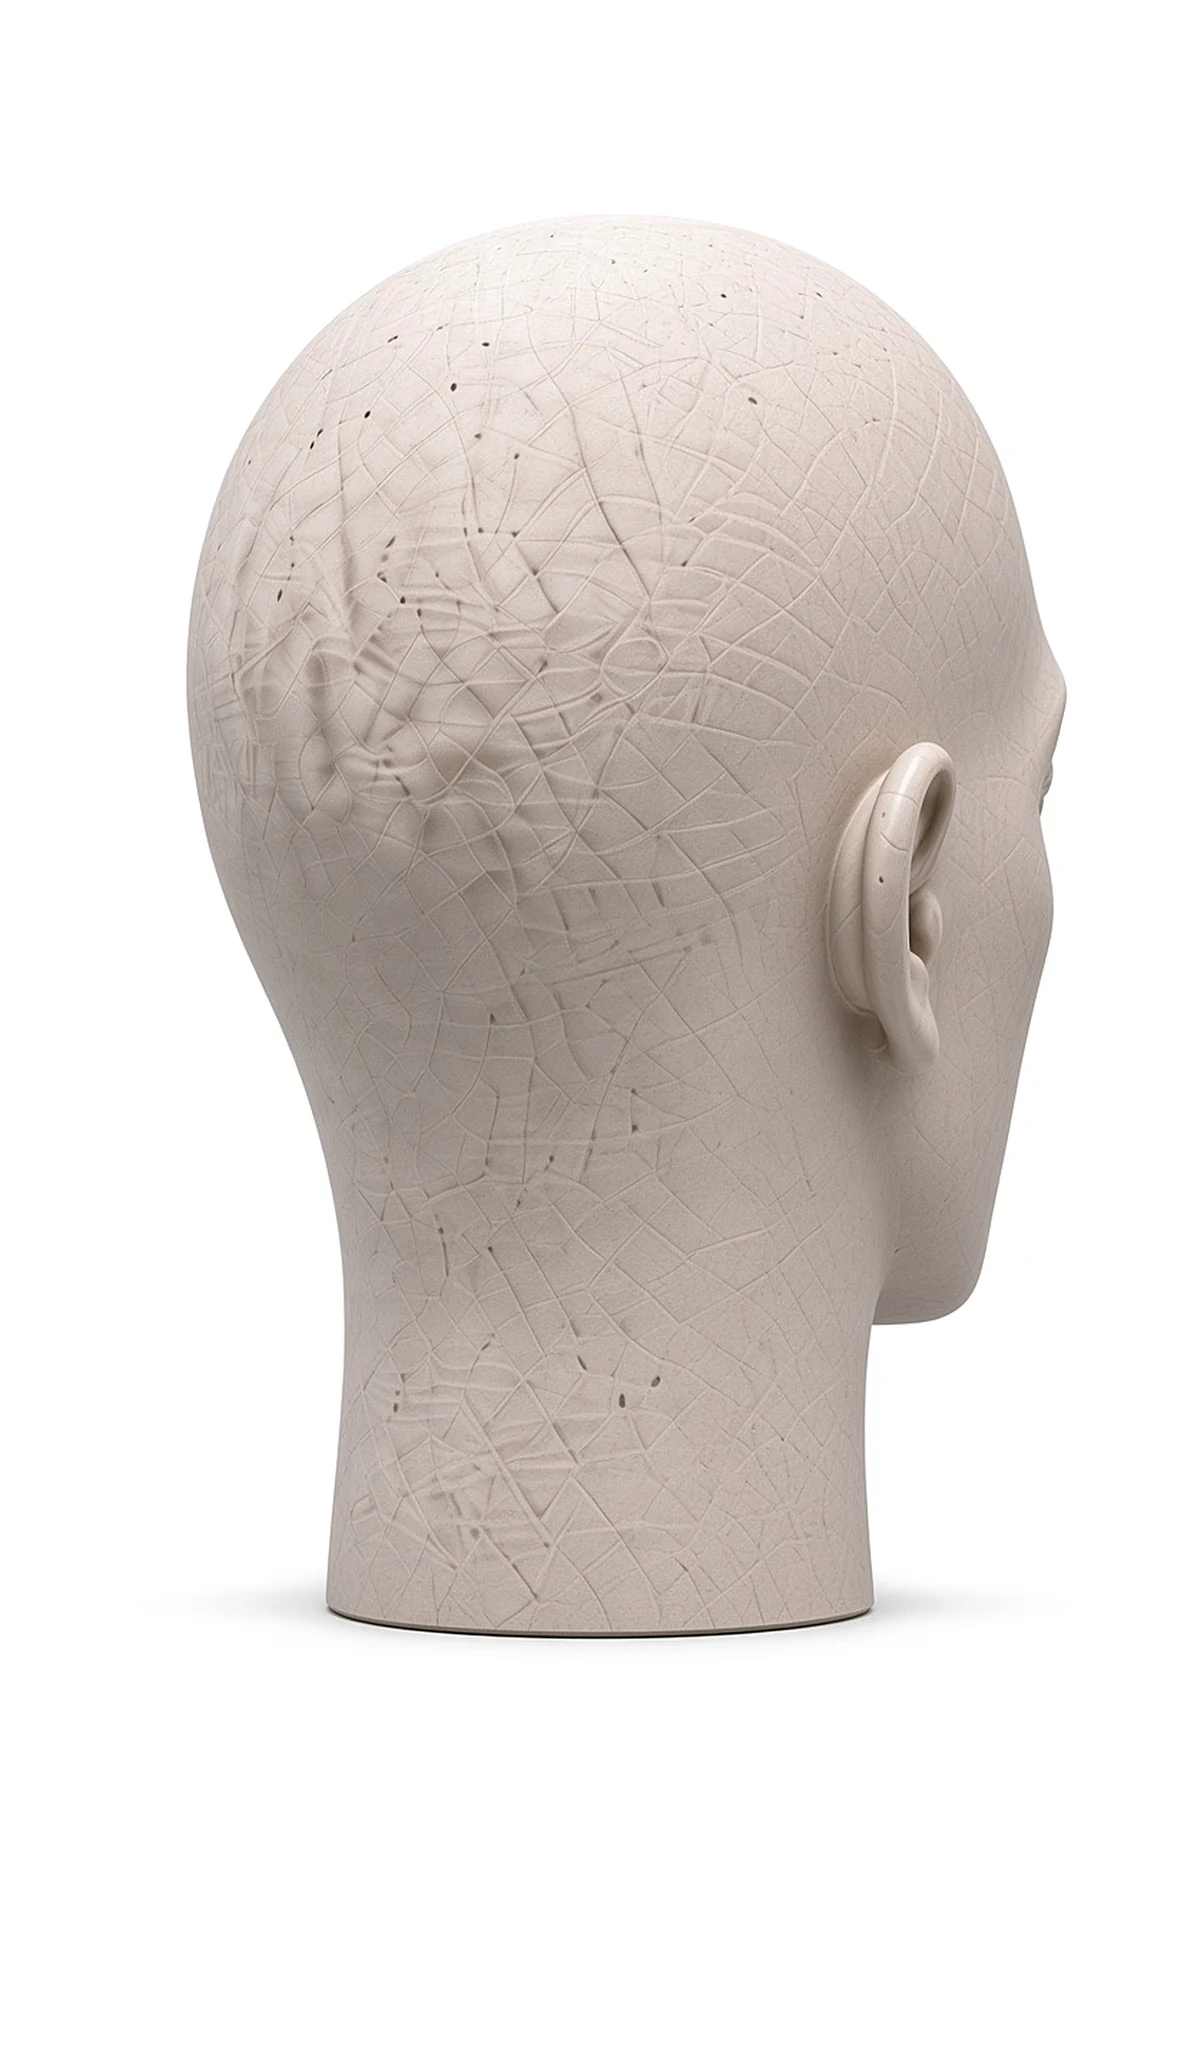
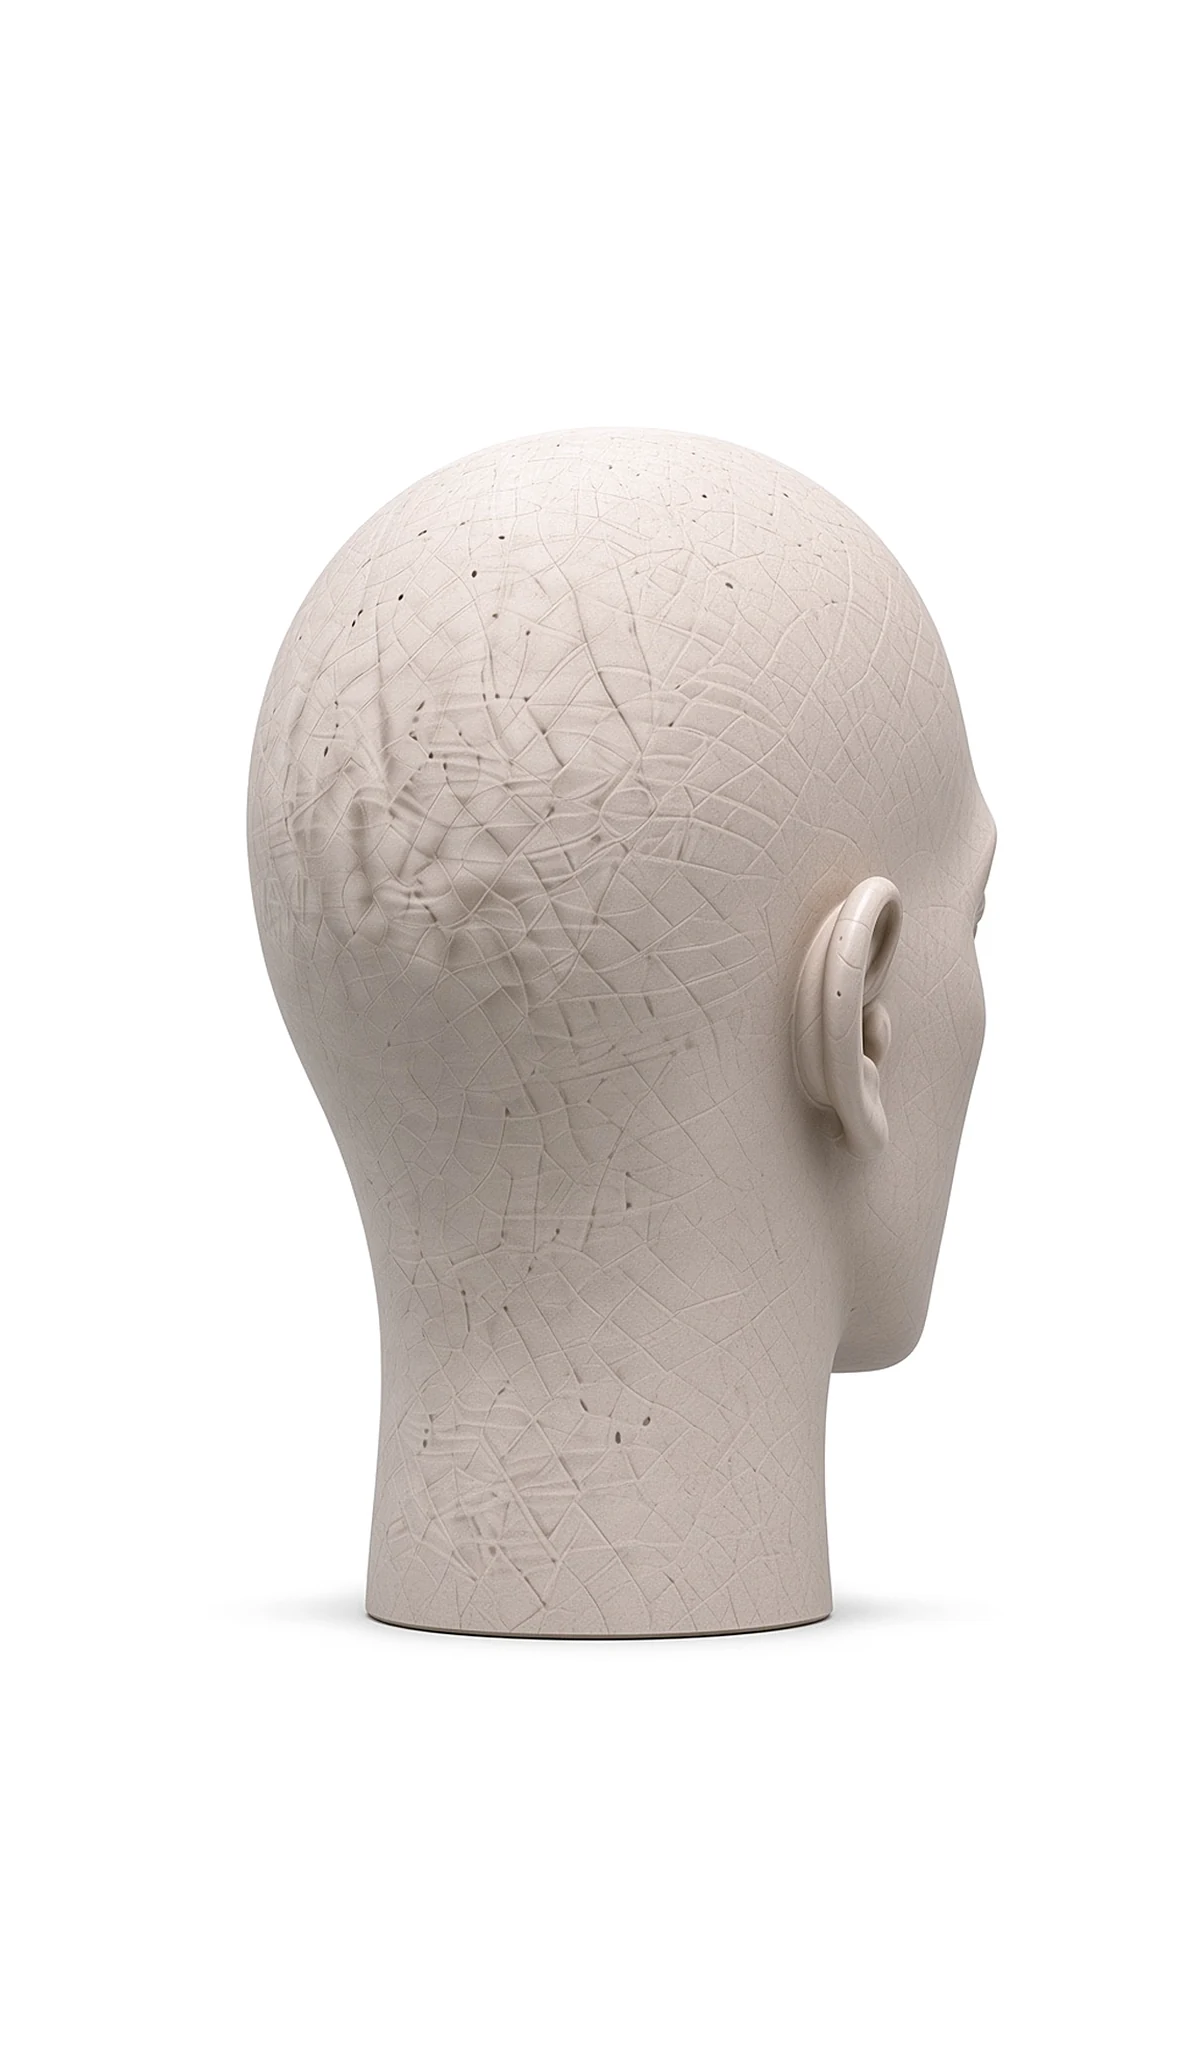
Model 5 (exact-27): bust 15% smaller in all 8 frames (rebuilt from sheet crops; same base line and centre); card framing + thumb updated

diff --git a/sw.js b/sw.js
@@ -3,7 +3,7 @@
 // cache only as the offline fallback) so a new deploy is never served stale; images are cache-first in their own cache
 // (frame URLs carry ?v=, so a rebuilt frame is a new URL). skipWaiting + clients.claim, so a new version takes over at once;
 // js/update.js then reloads the page.
-const VERSION = '2026.10.30-024321-436a92b';
+const VERSION = '2026.10.30-032449-8233ed5';
 const CACHE = `mg-${VERSION}`, IMG = 'mg-img', IMG_MAX = 600;
 const SHELL = ['./', 'index.html', 'css/style.css', 'js/app.js', 'js/outfit-drag.js', 'js/update.js', 'data/manifest.json', 'manifest.webmanifest',
   'icons/icon-192.png', 'icons/icon-512.png', 'icons/apple-touch-icon.png', 'icons/favicon-64.png'];

diff --git a/js/update.js b/js/update.js
@@ -4,7 +4,7 @@
 // - then the page reloads (the hash deep link, e.g. #exact-5/base/315, is kept). Loop guard: at most 2 auto-reloads per new
 //   version and 5 per minute; never for a worker whose version this page already runs.
 (function () {
-  const VERSION = '2026.10.30-024321-436a92b';
+  const VERSION = '2026.10.30-032449-8233ed5';
   window.__mgVersion = VERSION;
   if (!('serviceWorker' in navigator) || !location.protocol.startsWith('http')) return;
   const sw = navigator.serviceWorker, LOOP_KEY = 'mg.swReloads';
